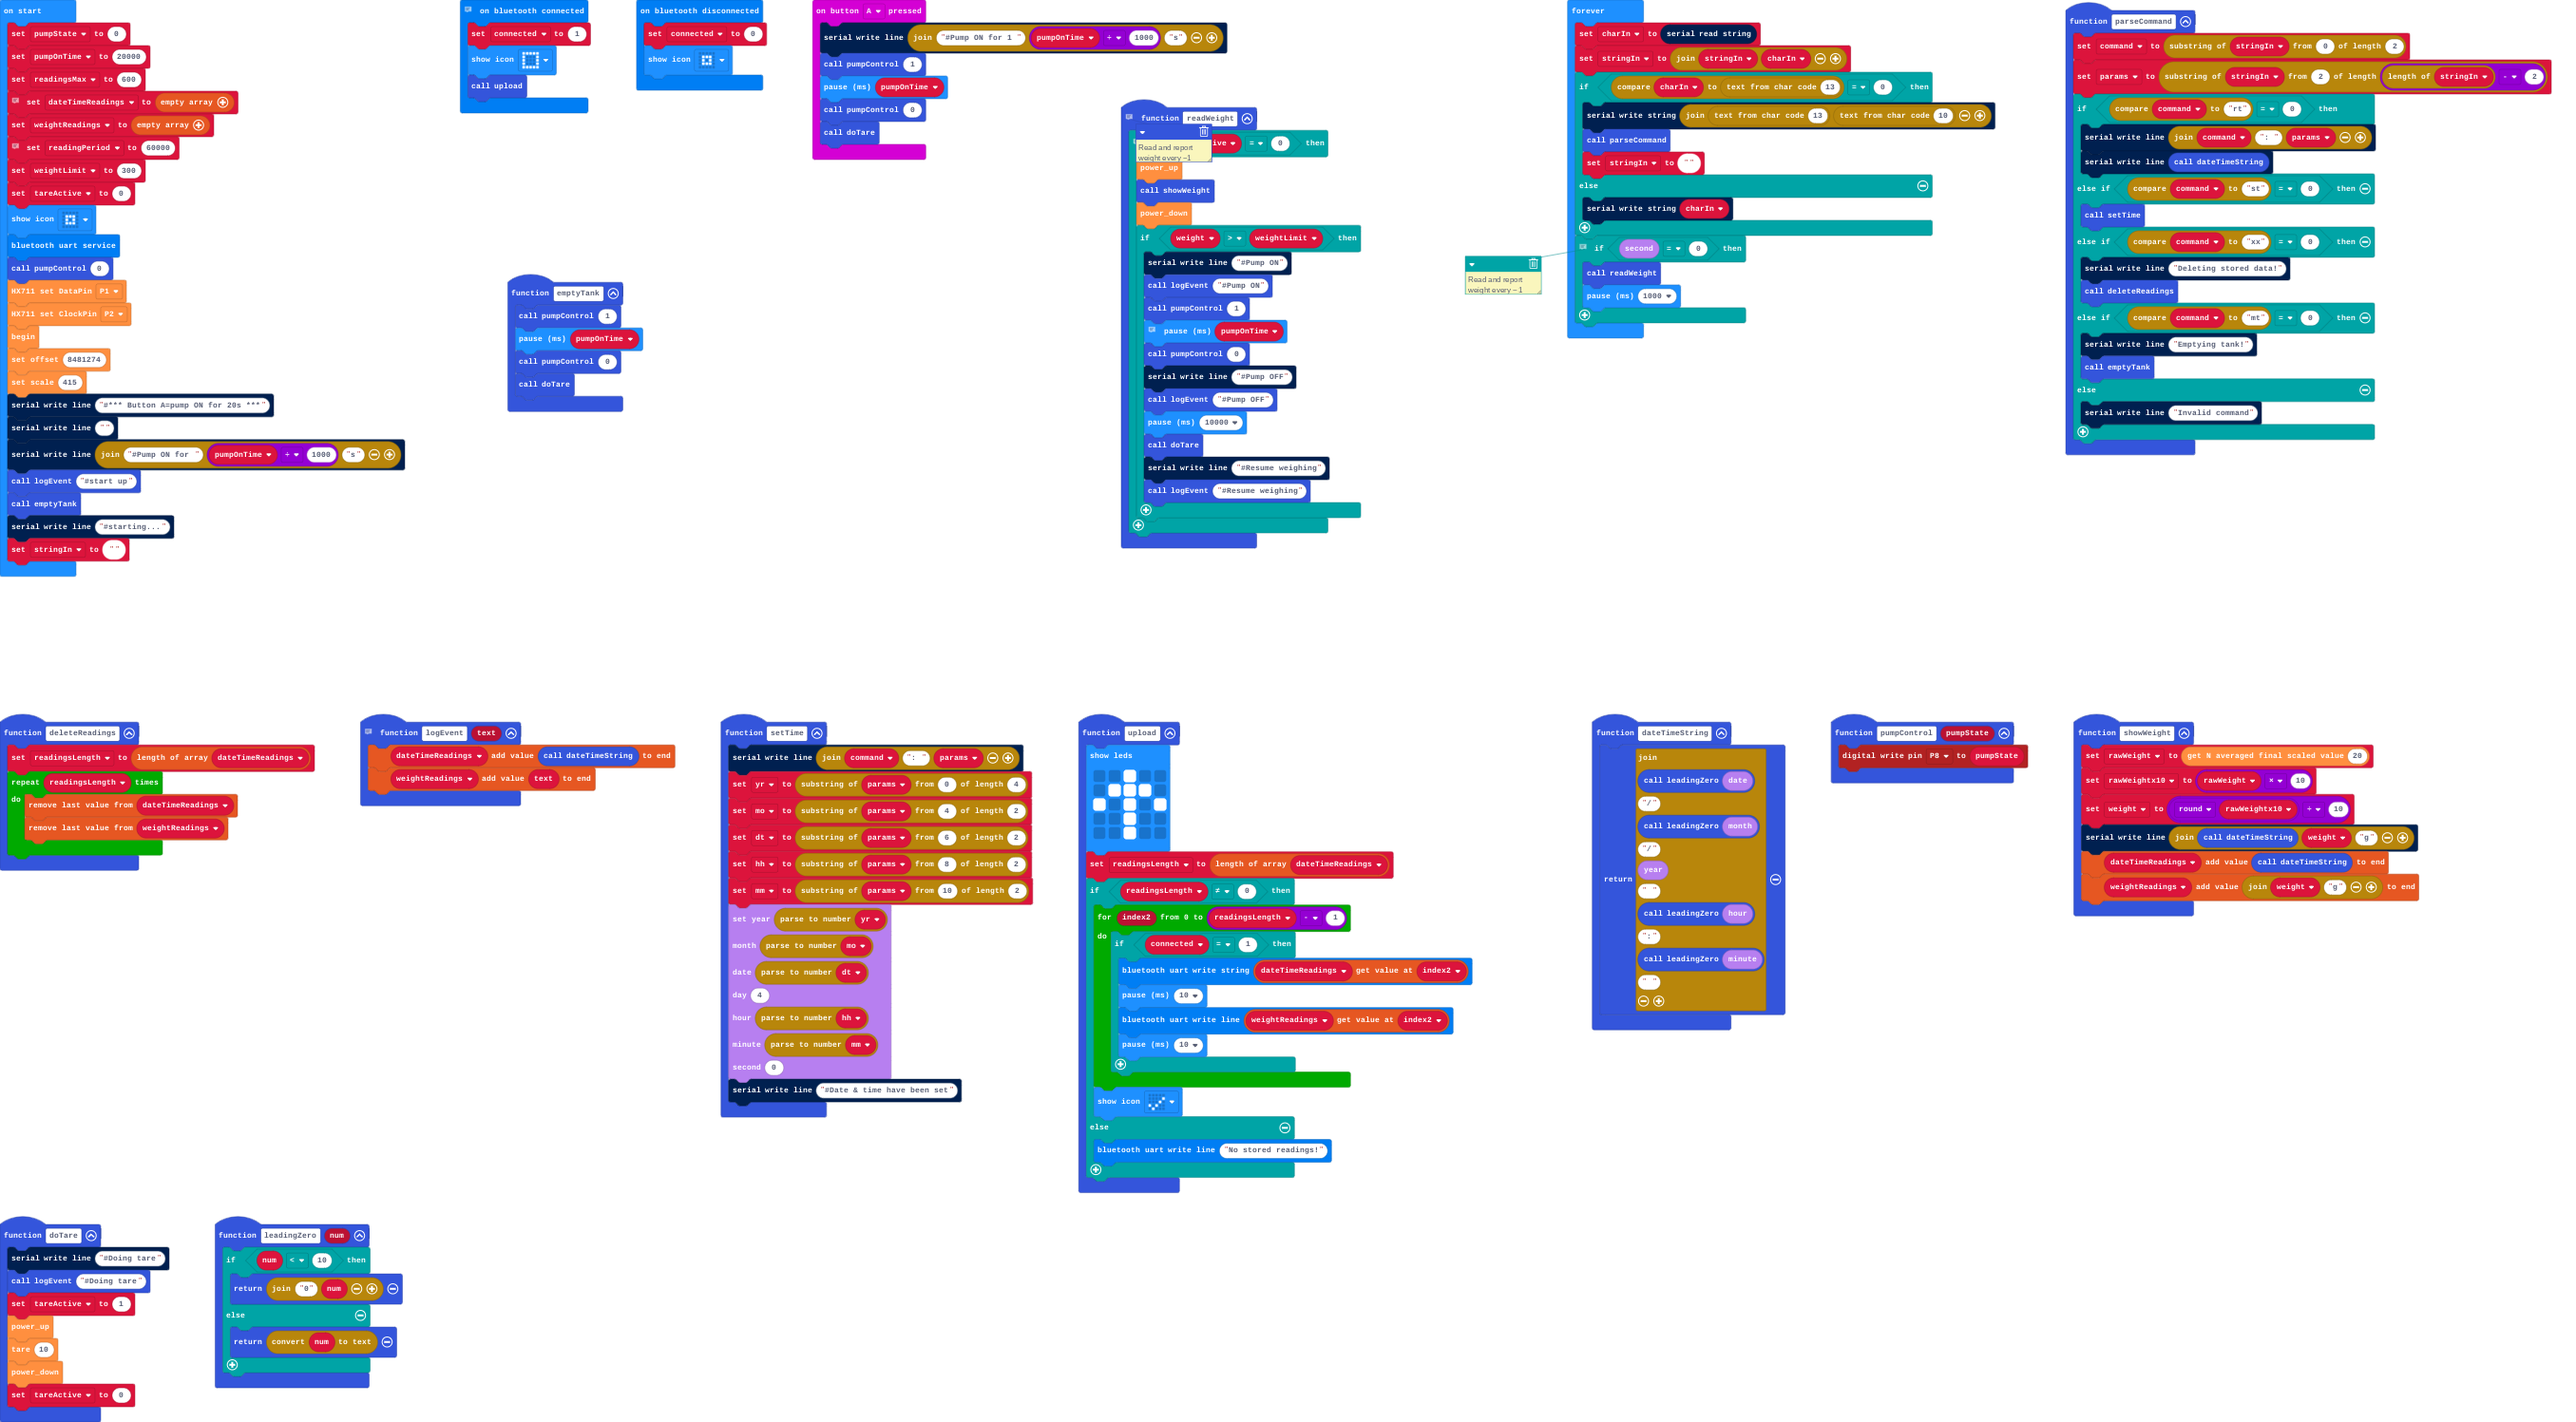
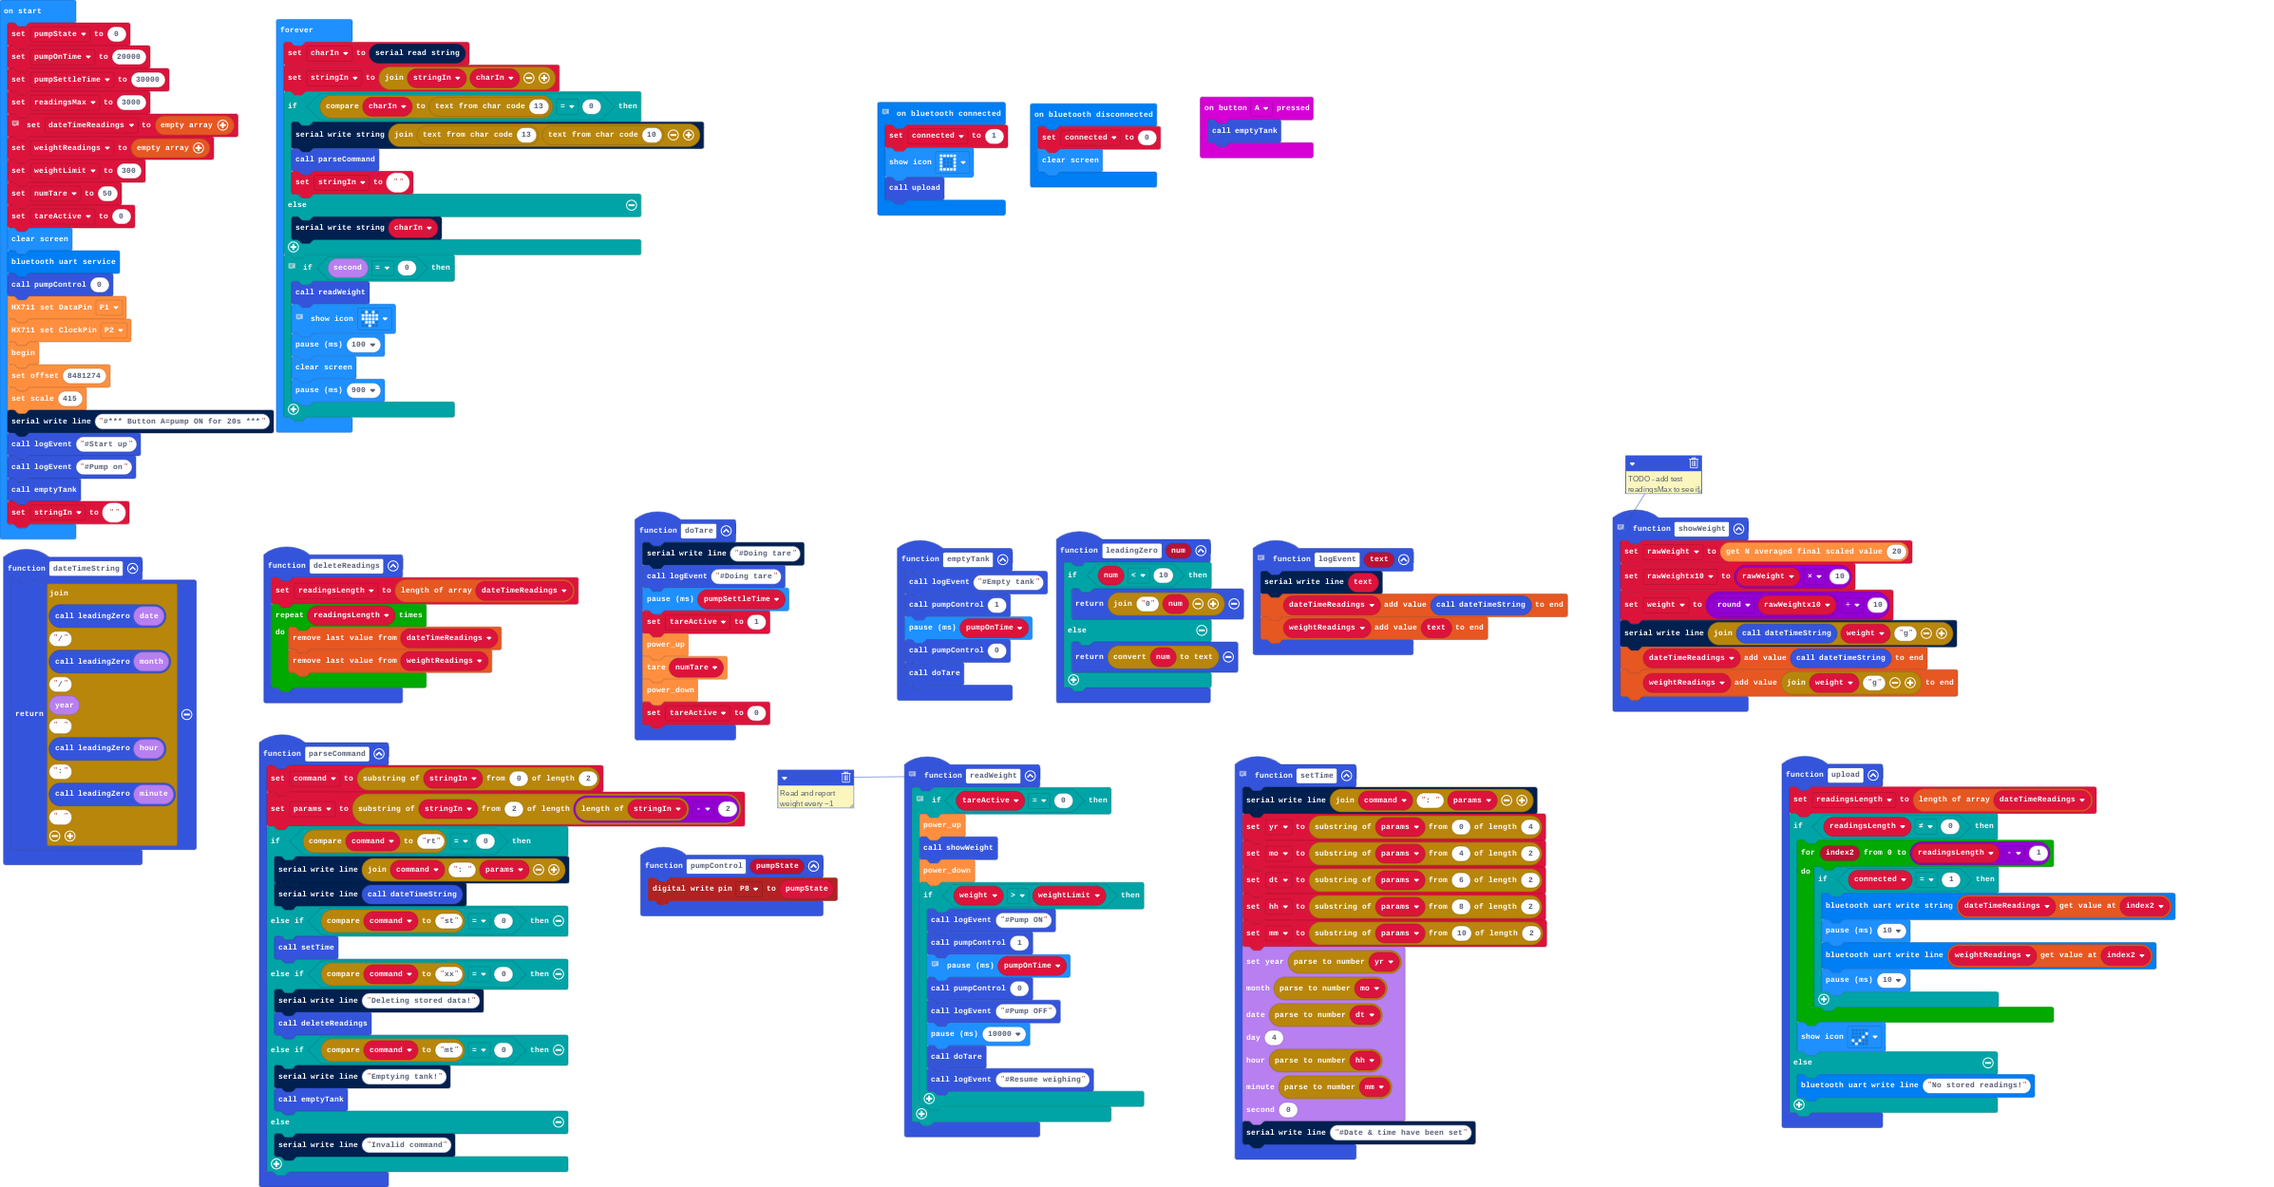
New numTare param; logEvent does serial message too; blank screen on BT disconnect; cal emptyTank on A pressed and logEvent too; heartbeat on display; increase readingsMax (but it's not used yet - TODO)

diff --git a/main.ts b/main.ts
@@ -1,12 +1,14 @@
 function doTare () {
     serial.writeLine("#Doing tare")
     logEvent("#Doing tare")
+    basic.pause(pumpSettleTime)
     tareActive = 1
     HX711.power_up()
-    HX711.tare(10)
+    HX711.tare(numTare)
     HX711.power_down()
     tareActive = 0
 }
+// TODO - add test readingsMax to see if over limit
 function showWeight () {
     rawWeight = HX711.get_units(20)
     rawWeightx10 = rawWeight * 10
@@ -58,16 +60,12 @@ bluetooth.onBluetoothConnected(function () {
 })
 bluetooth.onBluetoothDisconnected(function () {
     connected = 0
-    basic.showIcon(IconNames.SmallSquare)
+    basic.clearScreen()
 })
 input.onButtonPressed(Button.A, function () {
-    serial.writeLine("#Pump ON for 1 " + pumpOnTime / 1000 + "s")
-    pumpControl(1)
-    basic.pause(pumpOnTime)
-    pumpControl(0)
-    doTare()
+    emptyTank()
 })
-// Read and report weight every ~1 minute
+// Read and report weight every ~1 minute TODO add persistence check!!!!
 function readWeight () {
     // Display continuously unless tare is operating
     if (tareActive == 0) {
@@ -75,23 +73,21 @@ function readWeight () {
         showWeight()
         HX711.power_down()
         if (weight > weightLimit) {
-            serial.writeLine("#Pump ON")
             logEvent("#Pump ON")
             pumpControl(1)
             // Delay of ~1-2s is important
             basic.pause(pumpOnTime)
             pumpControl(0)
-            serial.writeLine("#Pump OFF")
             logEvent("#Pump OFF")
             basic.pause(10000)
             doTare()
-            serial.writeLine("#Resume weighing")
             logEvent("#Resume weighing")
         }
     }
 }
-// Store an event (text)
+// Store an event (text) and also send it to serial (USB)
 function logEvent (text: string) {
+    serial.writeLine(text)
     dateTimeReadings.push(dateTimeString())
     weightReadings.push(text)
 }
@@ -99,13 +95,6 @@ function dateTimeString () {
     return "" + leadingZero(DS3231.date()) + "/" + leadingZero(DS3231.month()) + "/" + DS3231.year() + " " + leadingZero(DS3231.hour()) + ":" + leadingZero(DS3231.minute()) + " "
 }
 function upload () {
-    basic.showLeds(`
-        . . # . .
-        . # # # .
-        # . # . #
-        . . # . .
-        . . # . .
-        `)
     readingsLength = dateTimeReadings.length
     if (readingsLength != 0) {
         for (let index2 = 0; index2 <= readingsLength - 1; index2++) {
@@ -121,6 +110,7 @@ function upload () {
         bluetooth.uartWriteLine("No stored readings!")
     }
 }
+// set the time - from serial USB ONLY
 function setTime () {
     serial.writeLine("" + command + ": " + params)
     yr = params.substr(0, 4)
@@ -140,6 +130,7 @@ function setTime () {
     serial.writeLine("#Date & time have been set")
 }
 function emptyTank () {
+    logEvent("#Empty tank")
     pumpControl(1)
     basic.pause(pumpOnTime)
     pumpControl(0)
@@ -160,21 +151,23 @@ let rawWeightx10 = 0
 let rawWeight = 0
 let stringIn = ""
 let tareActive = 0
+let numTare = 0
 let weightLimit = 0
 let weightReadings: string[] = []
 let dateTimeReadings: string[] = []
+let pumpSettleTime = 0
 let pumpOnTime = 0
 let pumpState = 0
 pumpOnTime = 20000
-let readingsMax = 600
+pumpSettleTime = 30000
+let readingsMax = 3000
 // storage
 dateTimeReadings = []
 weightReadings = []
-// time between readings (ms)
-let readingPeriod = 60000
 weightLimit = 300
+numTare = 50
 tareActive = 0
-basic.showIcon(IconNames.SmallSquare)
+basic.clearScreen()
 bluetooth.startUartService()
 pumpControl(0)
 HX711.SetPIN_DOUT(DigitalPin.P1)
@@ -183,11 +176,9 @@ HX711.begin()
 HX711.set_offset(8481274)
 HX711.set_scale(415)
 serial.writeLine("#*** Button A=pump ON for 20s ***")
-serial.writeLine("")
-serial.writeLine("#Pump ON for " + pumpOnTime / 1000 + "s")
-logEvent("#start up")
+logEvent("#Start up")
+logEvent("#Pump on")
 emptyTank()
-serial.writeLine("#starting...")
 stringIn = ""
 basic.forever(function () {
     charIn = serial.readString()
@@ -202,6 +193,10 @@ basic.forever(function () {
     // Read and report weight every ~ 1 minute
     if (DS3231.second() == 0) {
         readWeight()
-        basic.pause(1000)
+        // Brief heartbeat
+        basic.showIcon(IconNames.Heart)
+        basic.pause(100)
+        basic.clearScreen()
+        basic.pause(900)
     }
 })
